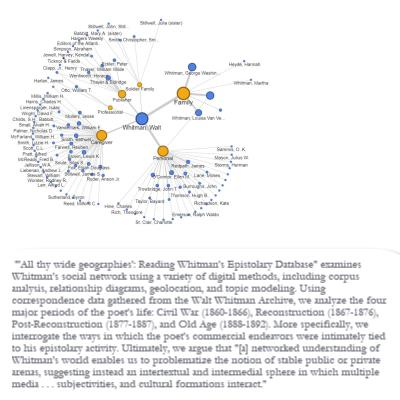
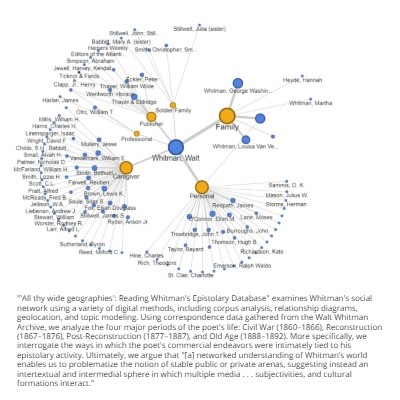
added publication

Changed region(s): [[0.03, 0.03, 0.96, 0.99], [0.72, 0.24, 0.84, 0.27], [0.69, 0.18, 0.81, 0.21]]

diff --git a/cv/cvportfolio/index.html b/cv/cvportfolio/index.html
@@ -174,9 +174,9 @@
 					<img src="images/sample.jpg" alt=""></a>
 			</div><!-- p-item -->
 
-			<div class="p-item conferences teaching">
-				<a href="images/portfolio-14-400x400.jpg" data-fluidbox>
-					<img src="images/portfolio-14-400x400.jpg" alt=""></a>
+			<div class="p-item publications">
+				<a href="images/whitman_dh.jpg" data-fluidbox>
+					<img src="images/whitman_dh.jpg" alt=""></a>
 			</div><!-- p-item -->
 
 			<div class="p-item publications">
